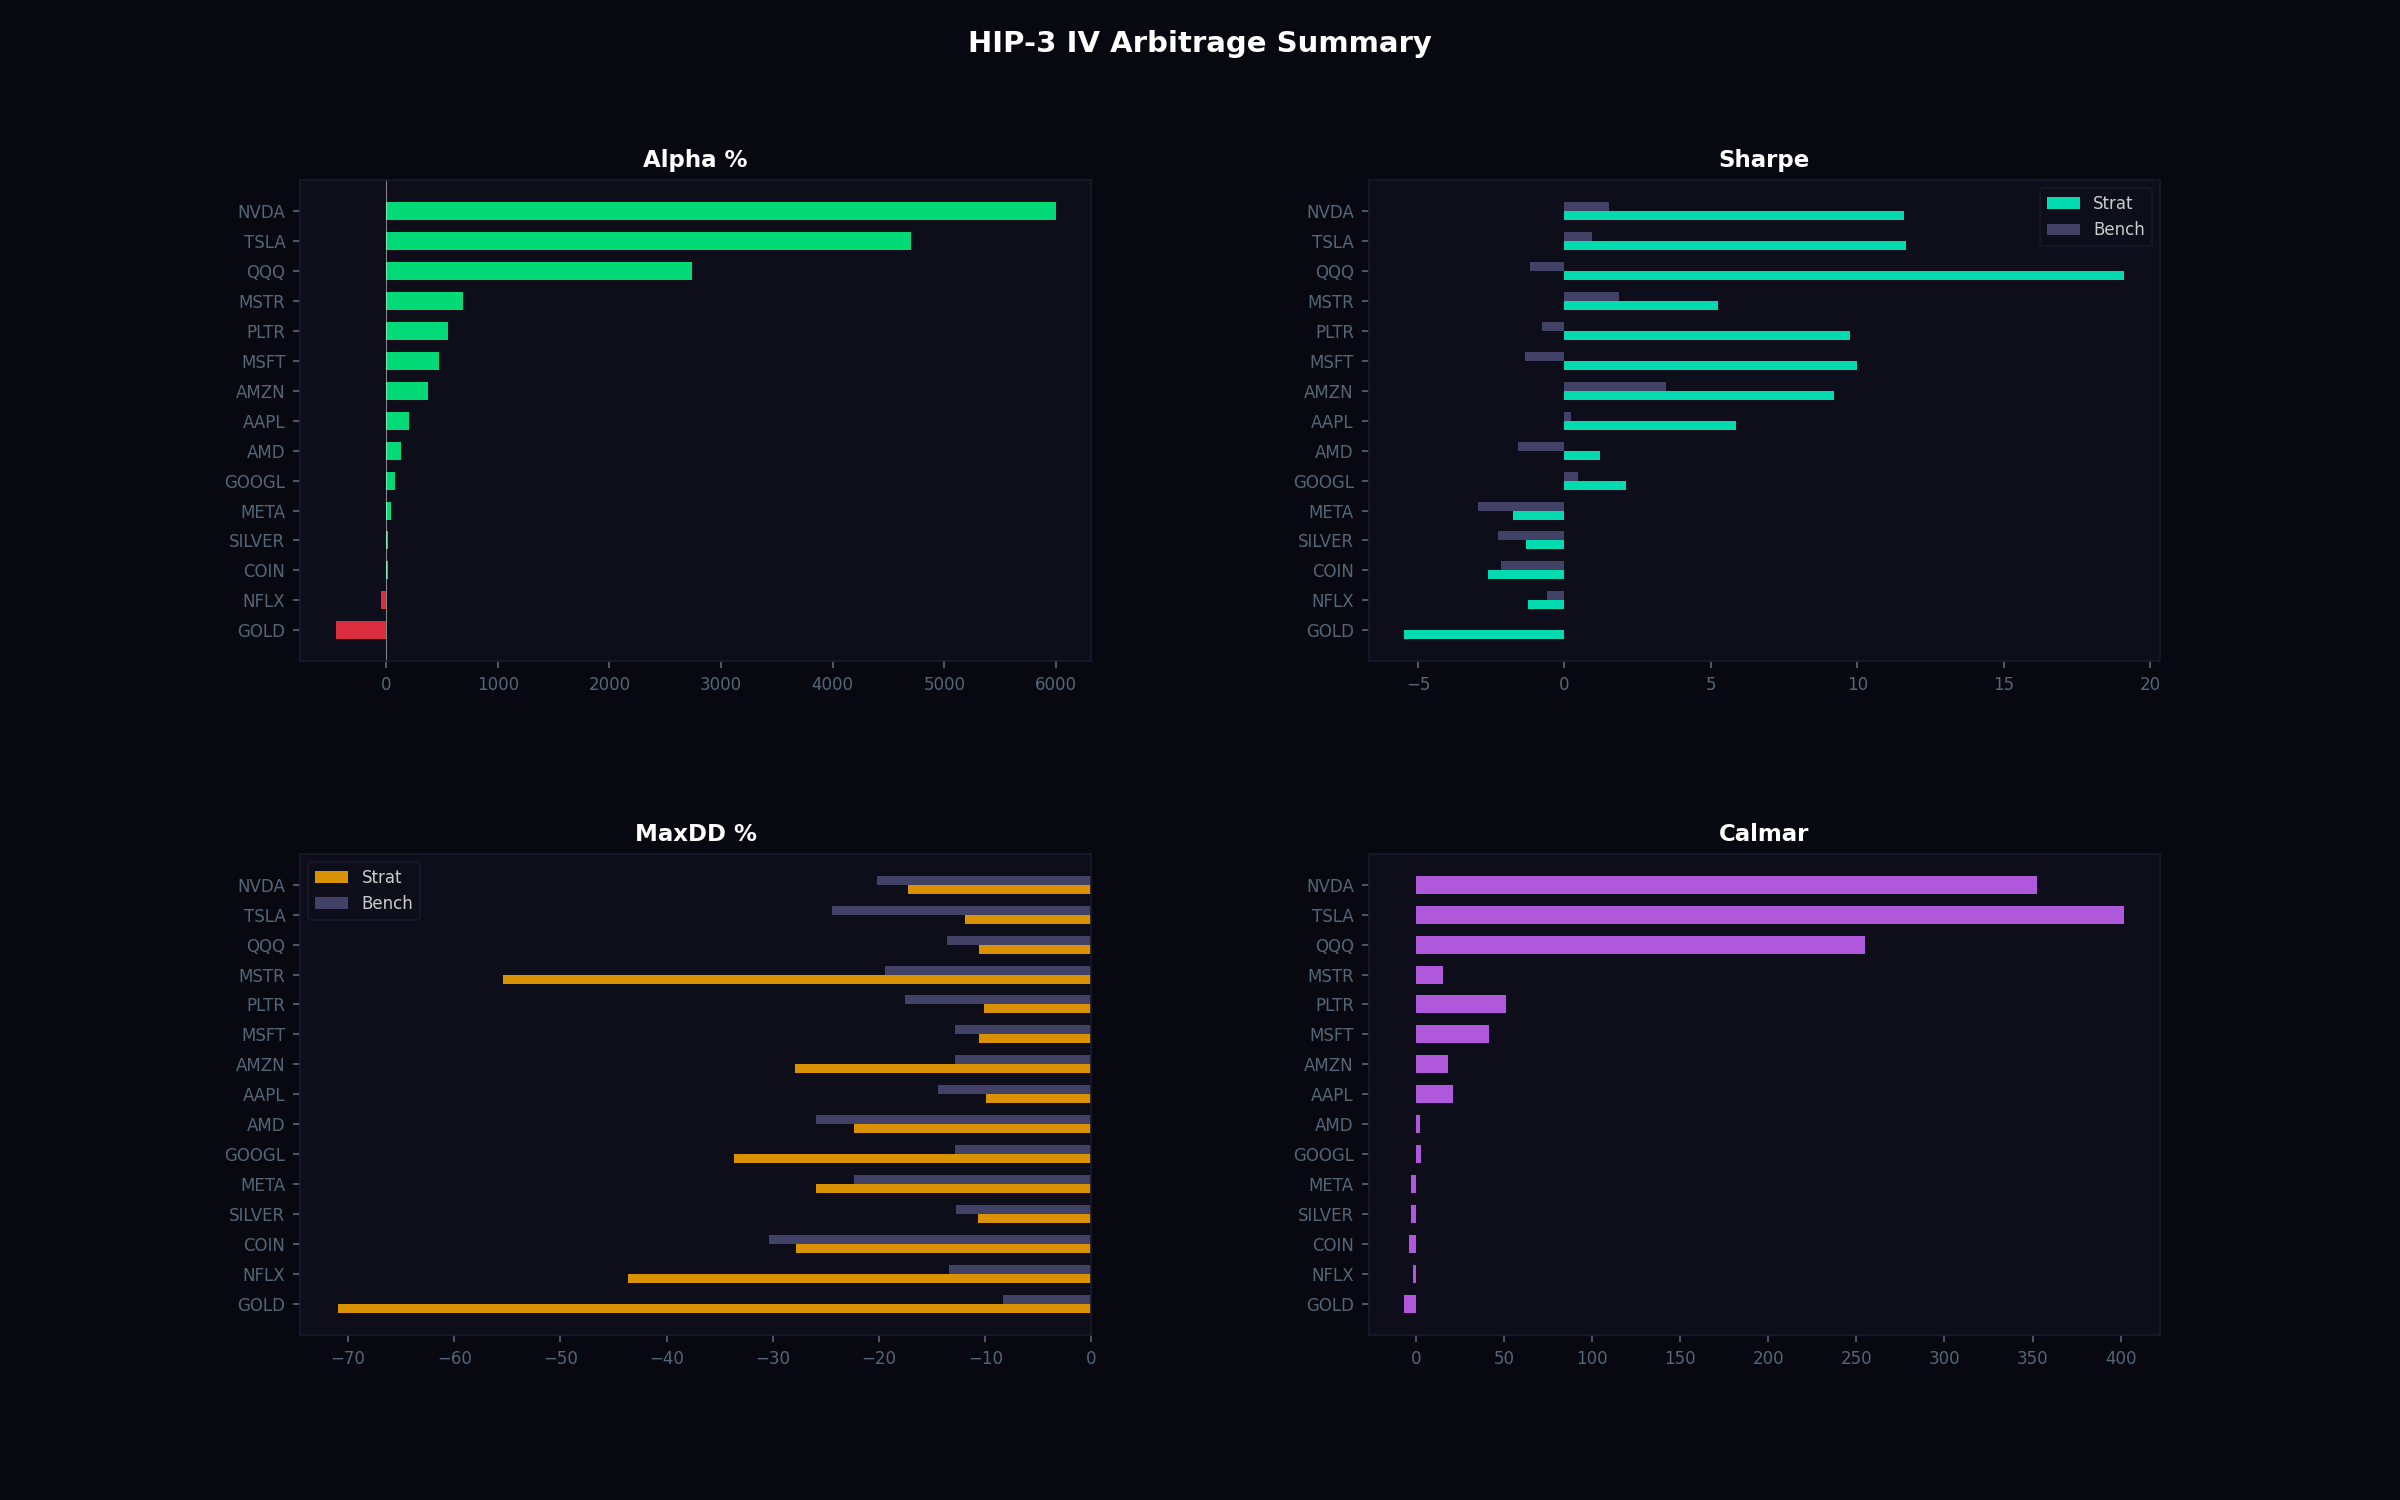
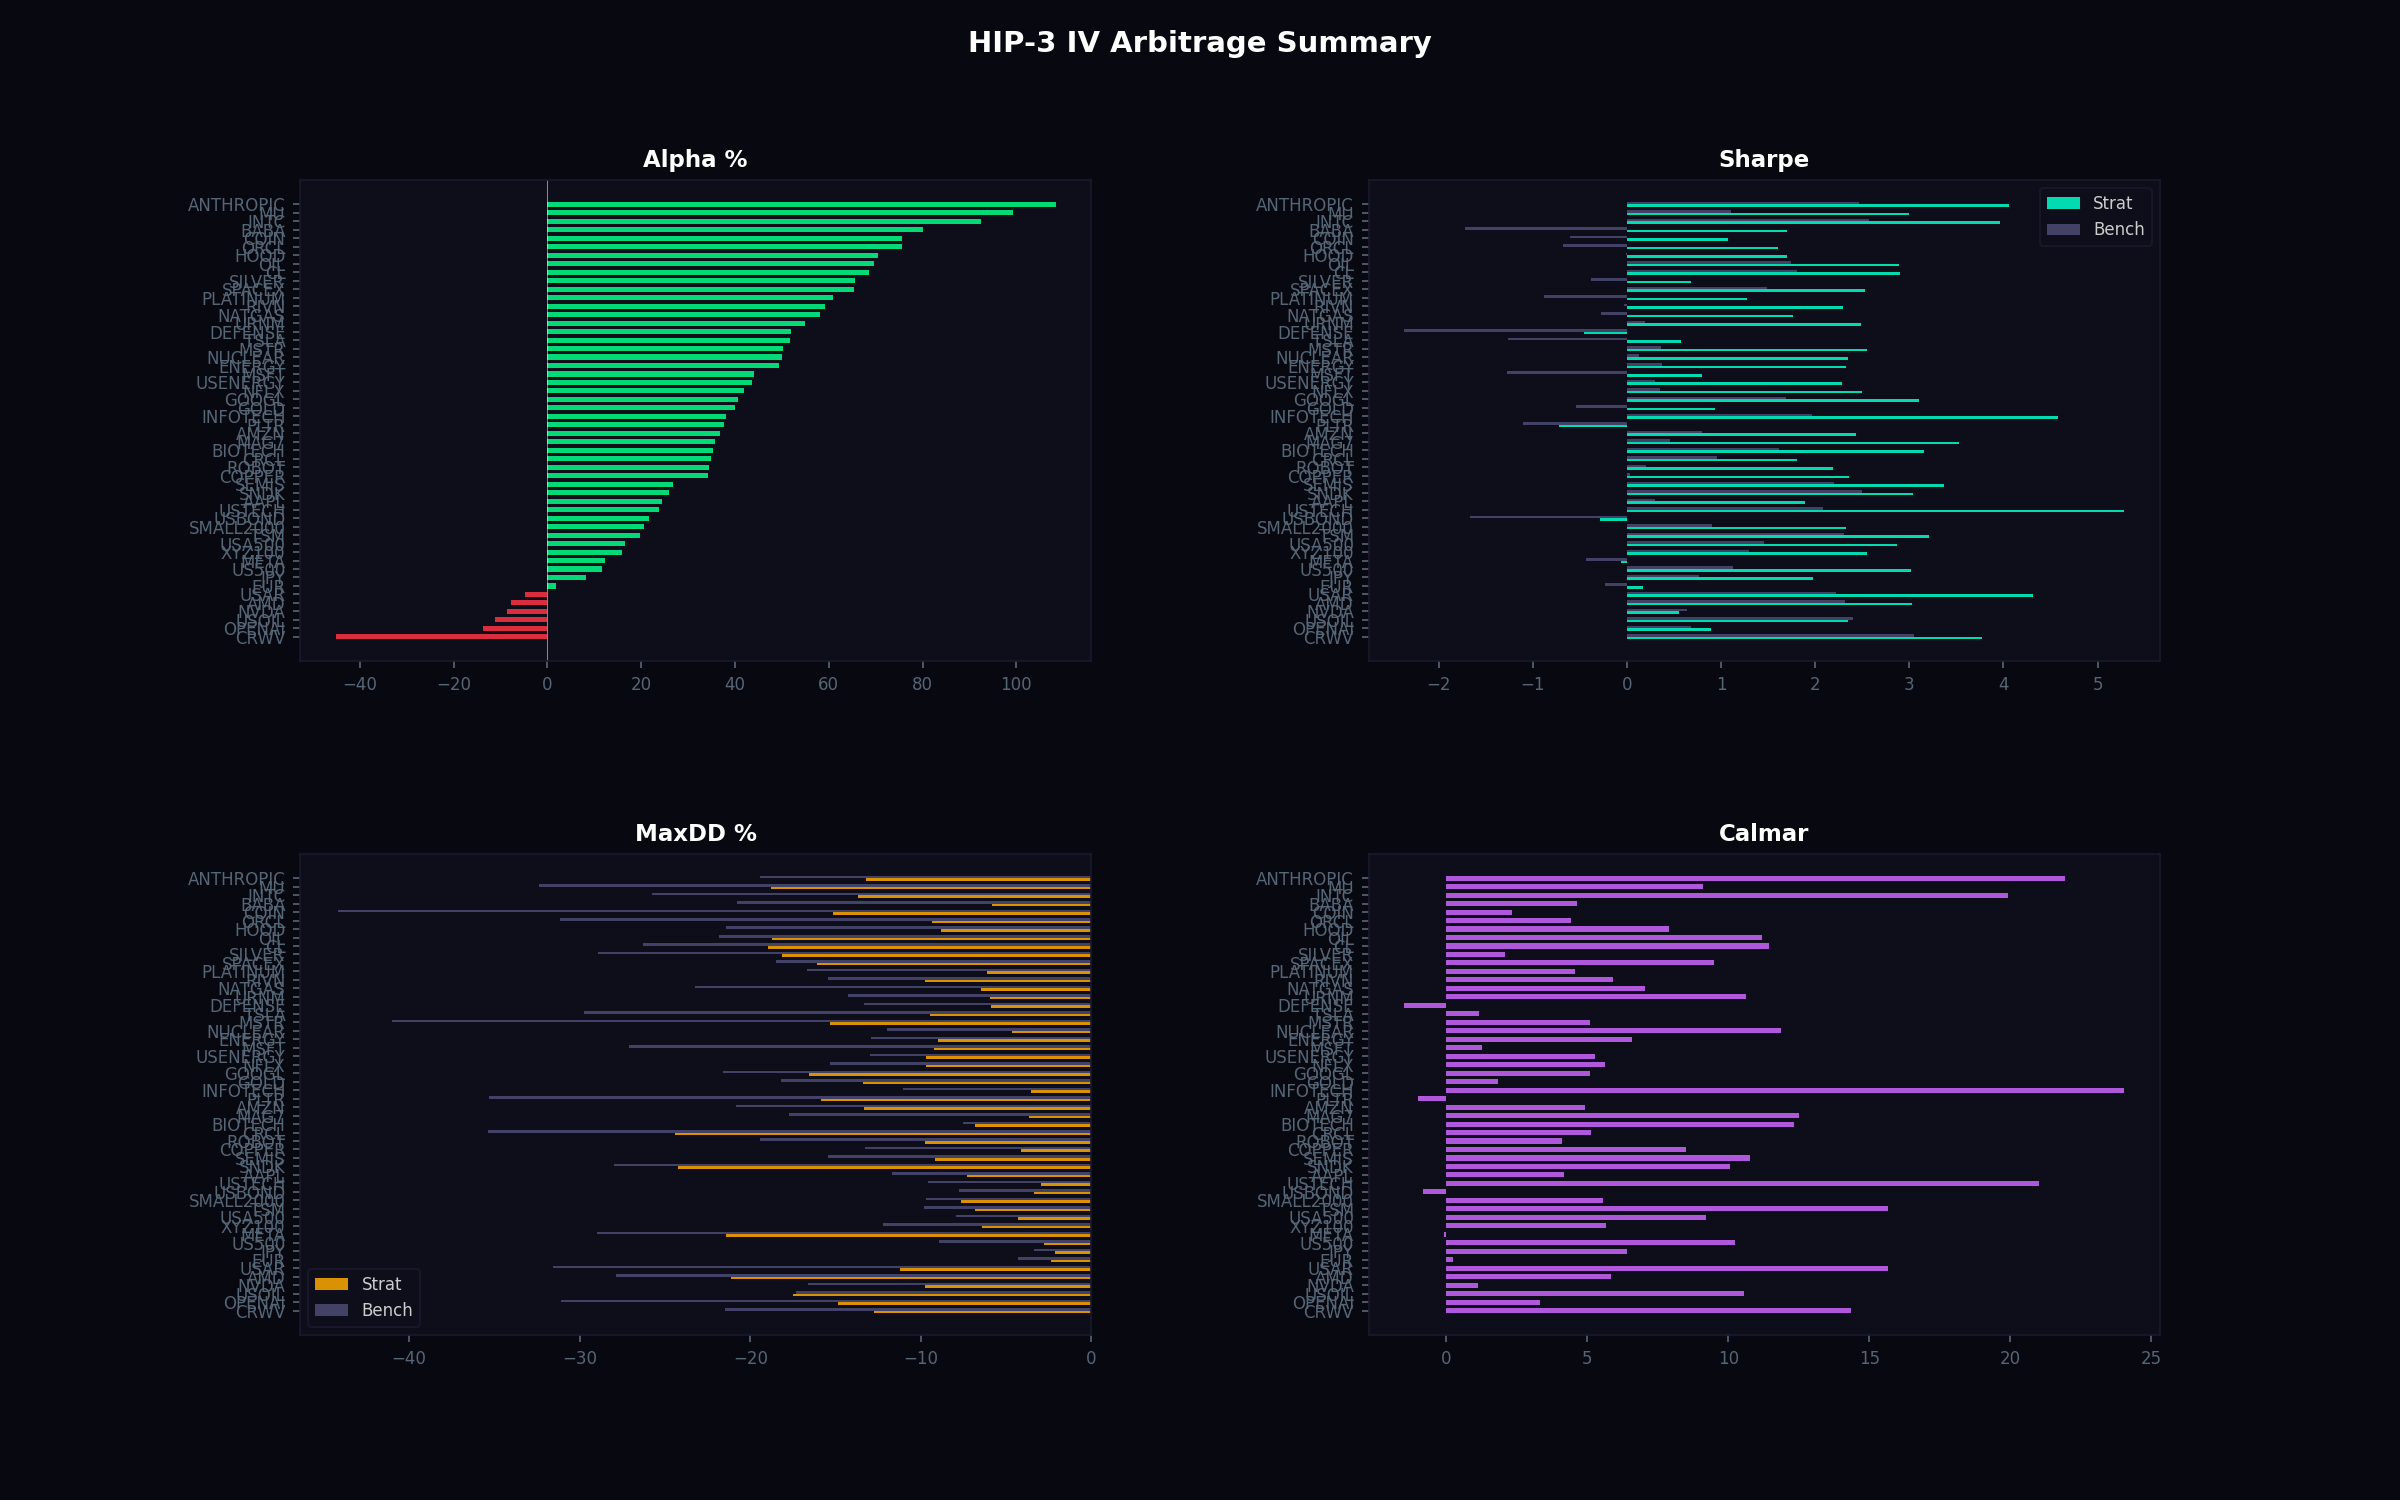
fix: summary PNG now shows all 52 markets, clean Sharpe column
- Regenerate hip3_arbitrage_summary.png from hip3_all_premium_results.csv
  (52 markets) instead of old hip3_rolling_backtest_results.csv (inflated)
- Update summary text: "46/52 positive" instead of "all 16 positive",
  ANTHROPIC +108.4% top alpha, USTECH 5.28 top Sharpe, DD cut 46%
- Remove ± fold-σ from Sharpe column in per-market table — show clean
  Sharpe values only
- Fix 16-asset section dates back to Apr 16 2026 (when that data was
  actually fetched)
- Split Statistical Validation into 52-market and 16-asset subsections
- gen_summary now defaults to hip3_all_premium_results.csv

https://claude.ai/code/session_01CQdQq5z5C347qZQrM5eVm2

diff --git a/scripts/generate_hip3_visualizations.py b/scripts/generate_hip3_visualizations.py
@@ -294,7 +294,7 @@ def main():
         bt=rolling_backtest_asset(o,h,l,c,f,arb.compute_hip3_implied_vol(c),arb.compute_ibkr_atm_iv(c),tk)
         all_bt[tk]=bt; curves[tk]=(bt['daily_pnl'][60:],bt['daily_bench'][60:])
     gen_dashboard(data,all_bt); gen_iv(); gen_greeks(); gen_equity(curves); gen_regime(data,all_bt); gen_heatmap(data)
-    csv=Path(__file__).resolve().parent.parent/'results'/'hip3_rolling_backtest_results.csv'
+    csv=Path(__file__).resolve().parent.parent/'results'/'hip3_all_premium_results.csv'
     if not csv.exists(): csv=Path(__file__).resolve().parent.parent/'results'/'hip3_backtest_results.csv'
     gen_summary(csv); print(f'\nDone! Output: {OUT_DIR}')
 
